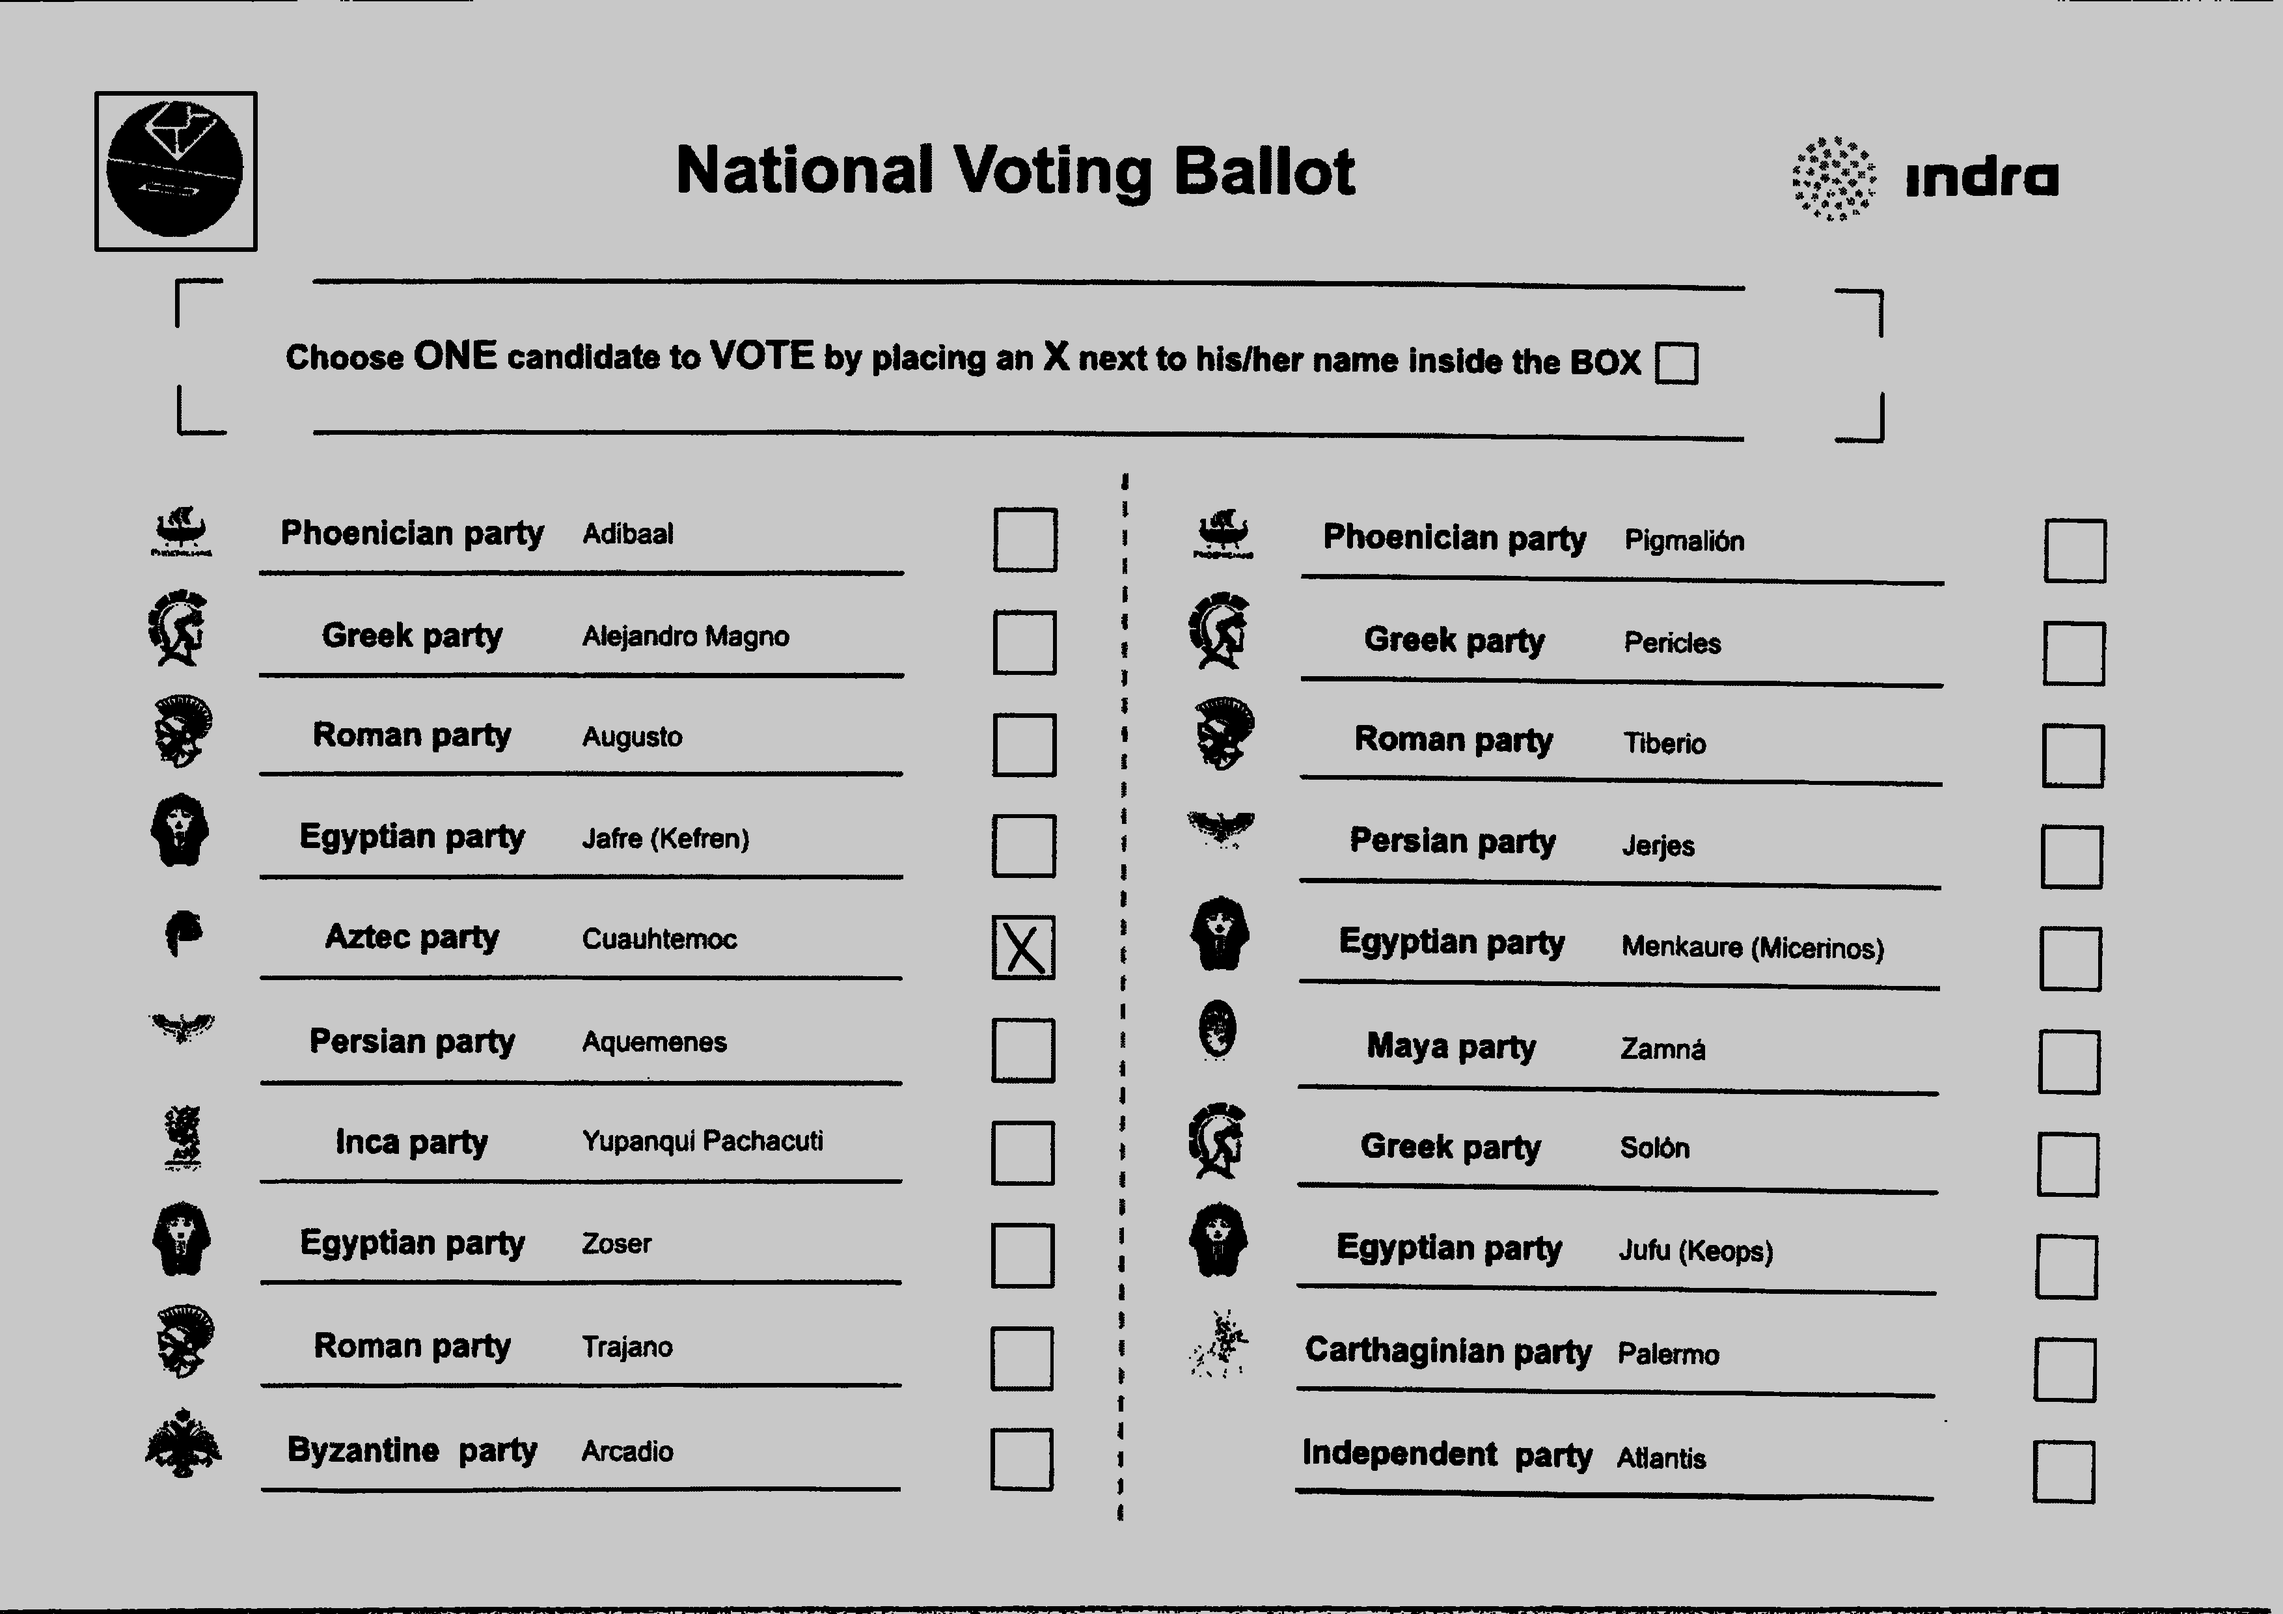
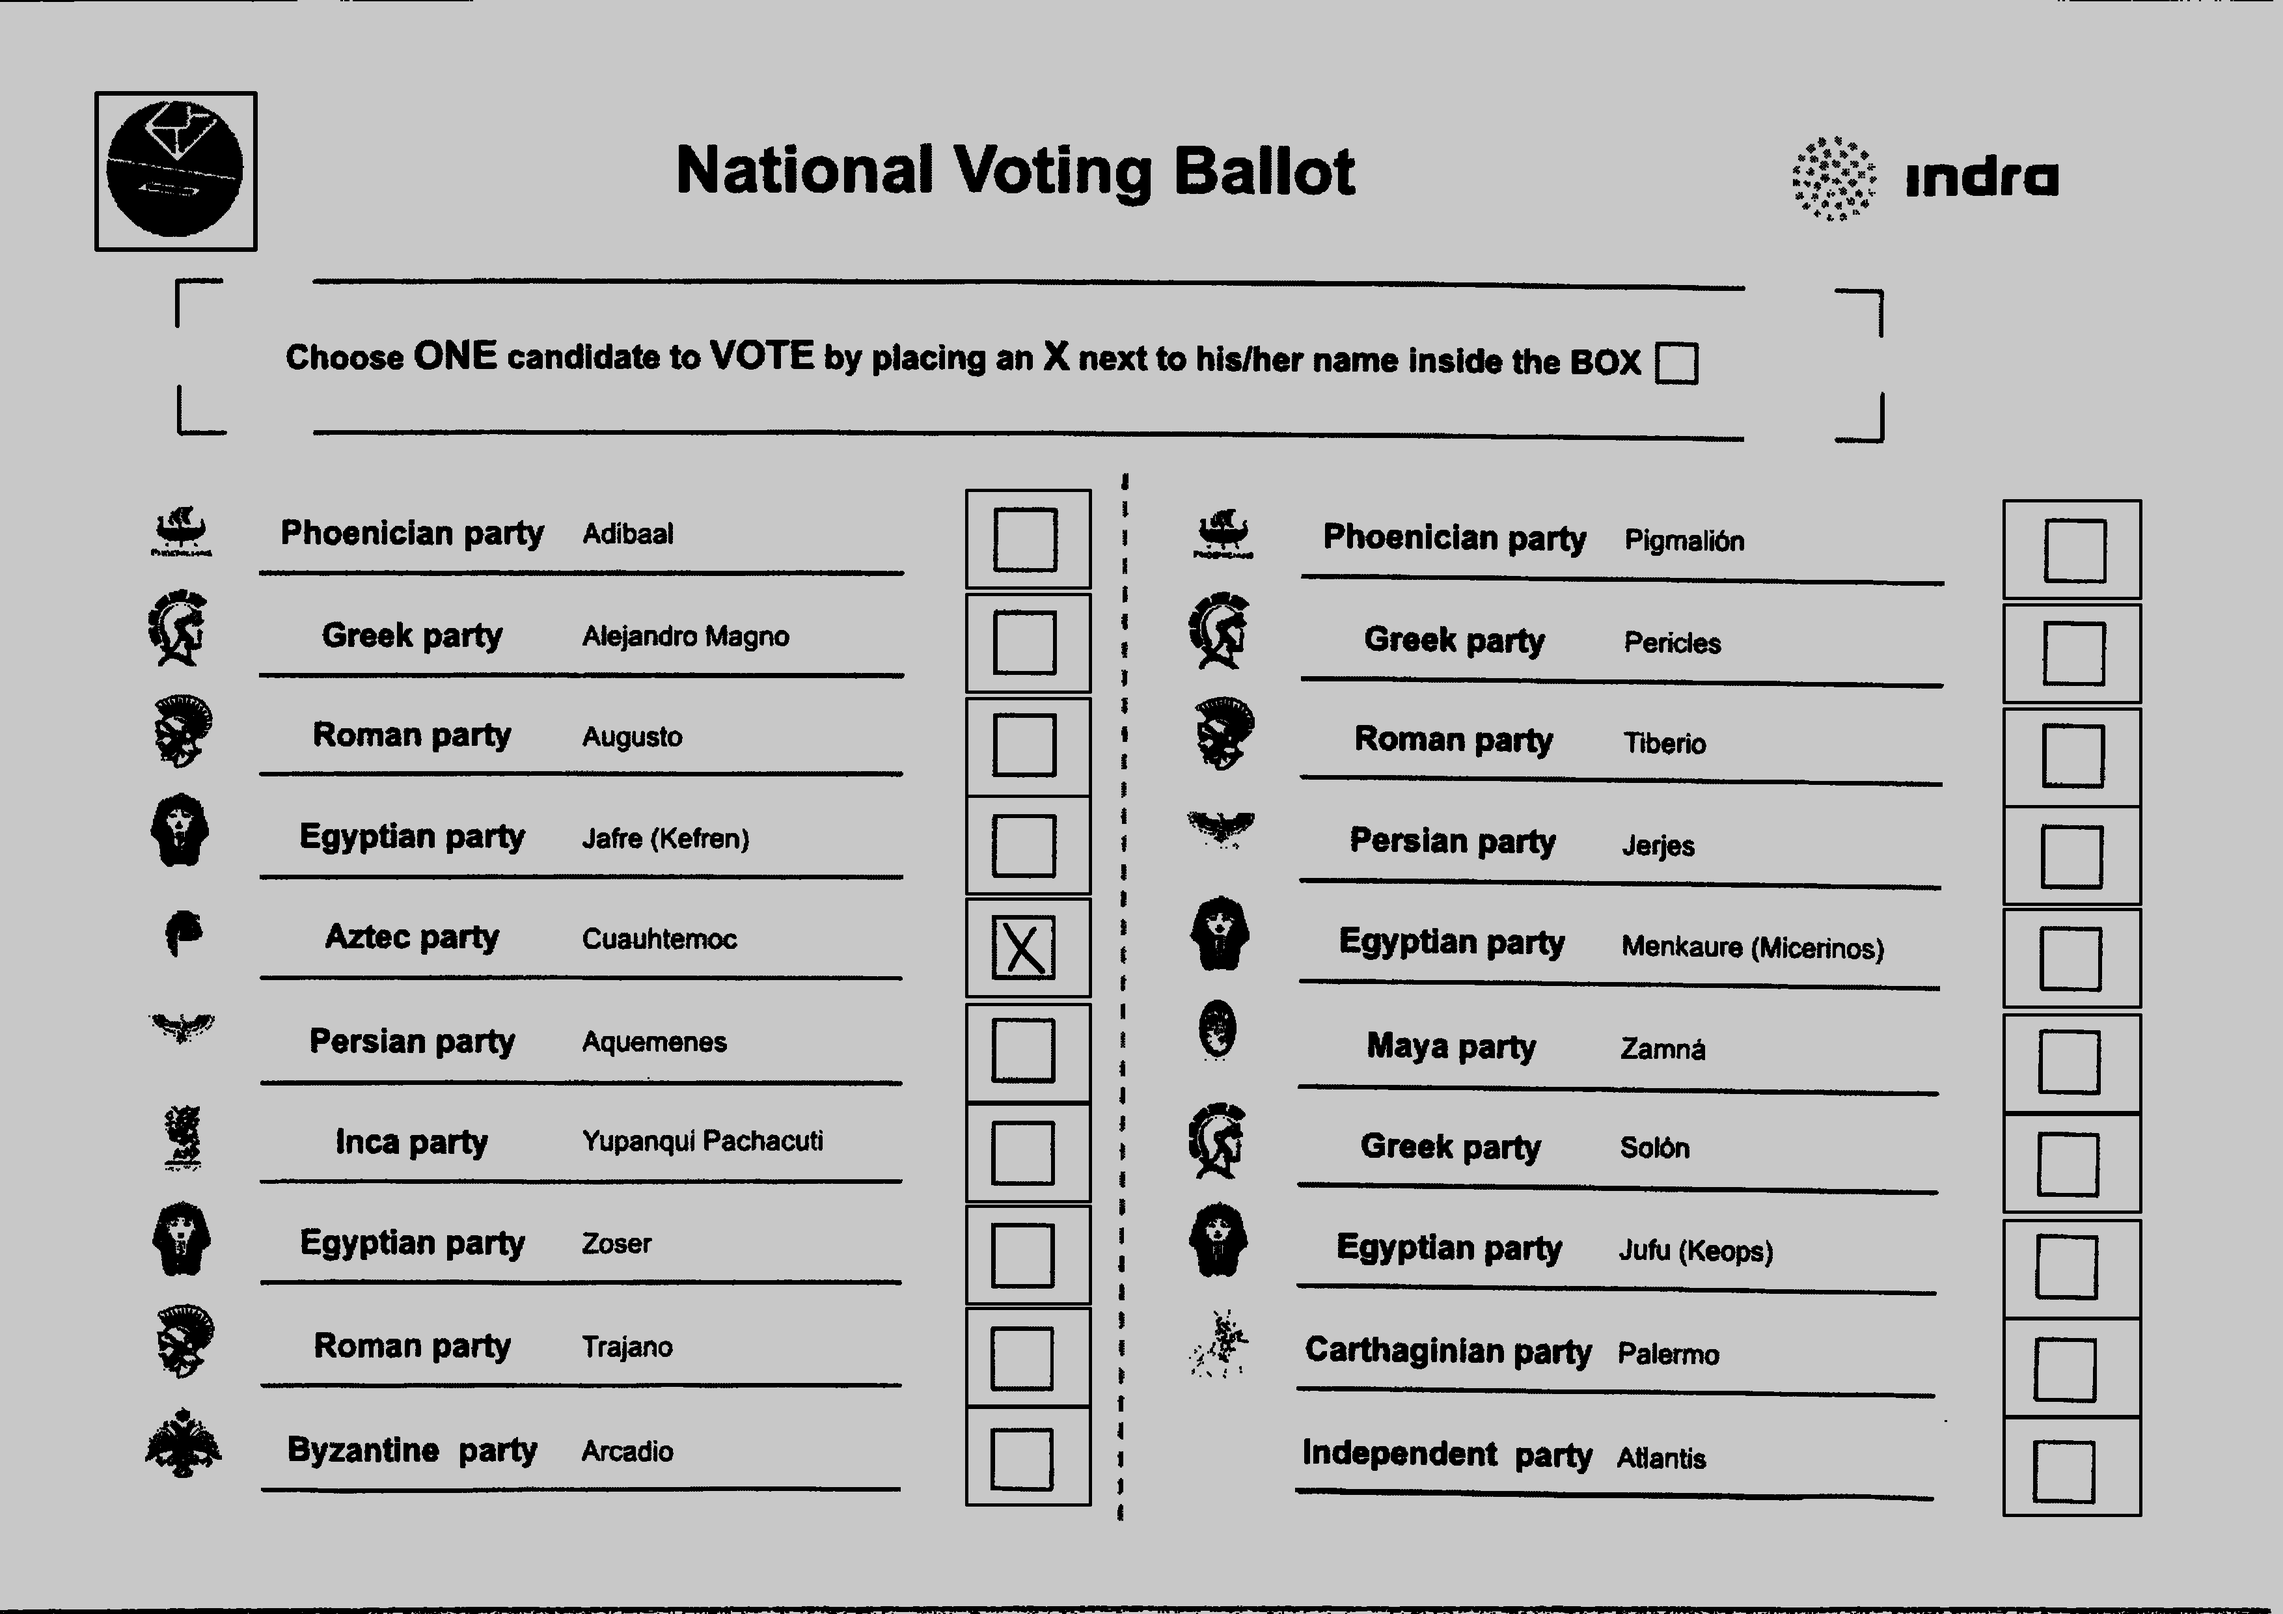
mejora

diff --git a/OCRVoteExtractor/OCRVoteExtractor/Form1.cs b/OCRVoteExtractor/OCRVoteExtractor/Form1.cs
@@ -42,6 +42,7 @@ namespace OCRVoteExtractor
             //foreach (string f in ficheros)            {
             //string f = "C:\\Users\\alain\\Documents\\PFG\\OCRVoteExtractor\\OCRVoteExtractor\\OCRVoteExtractor\\imagen\\image1.jpg";
             cargarPartidos();
+            //pintaCuadrados();
             buscar(img);
             //pintaCuadrados(f);
             //}
@@ -77,19 +78,127 @@ namespace OCRVoteExtractor
             }
         }
 
+        public void pintarCuadros(Rectangle r)
+        {
+            // detectar si hay cuadrados
+
+            Image<Bgr, Byte> img = new Image<Bgr, byte>((Bitmap)pictureBox1.Image);
+            //System.IO.FileInfo f = new System.IO.FileInfo(imagen);
+            UMat uimage = new UMat();
+            CvInvoke.CvtColor(img, uimage, ColorConversion.Bgr2Gray);
+            UMat pyrDown = new UMat();
+            UMat cannyEdges = new UMat();
+            // CvInvoke.AdaptiveThreshold(uimage, uimage, 125, AdaptiveThresholdType.MeanC, ThresholdType.Binary, 11, 12);
+            CvInvoke.Threshold(uimage, uimage, 180, 200, ThresholdType.Binary);
+            //CvInvoke.Threshold(uimage, uimage, 127, 256, 0);
+
+
+
+            var element = CvInvoke.GetStructuringElement(ElementShape.Rectangle, new Size(3, 3), new Point(-1, -1));
+
+            //CvInvoke.Dilate(uimage, uimage, element, new Point(-1, -1), 1, BorderType.Isolated, default(MCvScalar));
+            CvInvoke.Erode(uimage, uimage, element, new Point(-1, -1), 1, BorderType.Default, default(MCvScalar));
+
+            //CvInvoke.Dilate(uimage, uimage, element, new Point(-1, -1),2, BorderType.Reflect, default(MCvScalar));
+            uimage.Save("C:\\Users\\alain\\Documents\\PFG\\OCRVoteExtractor\\OCRVoteExtractor\\OCRVoteExtractor\\imagen\\guardada_erode.png");
+            // CvInvoke.PyrDown(uimage, pyrDown);
+            // CvInvoke.PyrUp(pyrDown, uimage);
+            //CvInvoke.Threshold(uimage, uimage, 50, 255, ThresholdType.Binary);
+
+            CvInvoke.Canny(uimage, cannyEdges, 100, 250);
+            cannyEdges.Save("C:\\Users\\alain\\Documents\\PFG\\OCRVoteExtractor\\OCRVoteExtractor\\OCRVoteExtractor\\imagen\\guardada_canny.png");
+
+            VectorOfVectorOfPoint contours = new VectorOfVectorOfPoint();
+            CvInvoke.FindContours(cannyEdges, contours, null, RetrType.List, ChainApproxMethod.ChainApproxSimple);
+            int count = contours.Size;
+            int a = 0;
+            for (int i = 0; i < count; i++)
+            {
+                VectorOfPoint contour = contours[i];
+               
+                VectorOfPoint approxContour = new VectorOfPoint();
+
+                //nos dice  si es una figura poligonal
+                CvInvoke.ApproxPolyDP(contour, approxContour, CvInvoke.ArcLength(contour, true) * 0.05, true);
+                // Calcula el área de todo el contorno o sección del contorno.
+                double area = CvInvoke.ContourArea(approxContour, false);
+               // MessageBox.Show(area.ToString());
+                
+                if (contour.Size == 4)
+                {
+                    // es un cuadrado
+                    
+                    //Rectangle rect = CvInvoke.BoundingRectangle(approxContour);
+                    Point[] pts = contour.ToArray();
+                   // MessageBox.Show(pts.Length.ToString());
+                    bool correcto = false;
+                    int xmin = r.X;
+                    
+                    int xmax = r.X + r.Width;
+                   // MessageBox.Show(xmin.ToString()+" "+ xmax.ToString());
+                    int ymin = r.Y;
+                    int ymax = r.Y + r.Height;
+                    for (int j = 0; j < pts.Length; j++)
+                    {
+                        if (pts[j].X > xmin && pts[j].X < xmax
+                       && pts[j].Y > ymin && pts[j].Y < ymax)
+                        {
+                            MessageBox.Show("x:" + pts[j].X.ToString() +
+                                "y:" + pts[j].Y.ToString() +
+                                "xmin:" + xmin.ToString() +
+                                "xmax:" + xmax.ToString() +
+                                "ymin:" + ymin.ToString() +
+                                "ymax:" + ymax.ToString());
+                            
+                            correcto = true;
+                        }
+                        else
+                        {
+                            correcto = false;
+                        }
+                        a++;
+                        
+                    }
+                    //MessageBox.Show("cuadrado");
+                    if (correcto)
+                    {
+                        MessageBox.Show("correcto");
+                        //MessageBox.Show("correcto");
+                       // img.Draw(rect, new Bgr(Color.Red), 2);
+                        pictureBox1.Image = img.ToBitmap();
+                    }
+
+
+
+                }
+
+            }
+           
+           // img.Save("C:\\Users\\alain\\Documents\\PFG\\OCRVoteExtractor\\OCRVoteExtractor\\OCRVoteExtractor\\imagen\\guardada_rectangulo.jpg");
+           // MessageBox.Show("Numero de cuadrados imagen es de " + a);
+        }
         public void buscar(Image<Bgr, Byte> img)
         {
+            List<Rectangle> rectangulos=new List<Rectangle>();
             for(int i = 0; i < this.partidosPapeleta.Count(); i++)
             {
                 Rectangle rect = new Rectangle(this.xT+this.partidosPapeleta[i].DistX, this.yT+this.partidosPapeleta[i].DistY, this.partidosPapeleta[i].Ancho, this.partidosPapeleta[i].Alto);
-               
-                    img.Draw(rect, new Bgr(Color.Red), 2);
+                rectangulos.Add(rect);
+                img.Draw(rect, new Bgr(Color.Red), 2);
+                
+                
             }
+
             pictureBox1.Image = img.ToBitmap();
-           
+
+            for (int k = 0; k < rectangulos.Count; k++)
+            {
+                pintarCuadros(rectangulos[k]);
+            }
+
         }
 
-        public void pintaCuadrados(string imagen)
+       /* public void pintaCuadrados()
         {
             // detectar si hay cuadrados
 
@@ -135,13 +244,15 @@ namespace OCRVoteExtractor
                 if (approxContour.Size >= 4)
                 {
                     // es un cuadrado
-
+                    
                     Rectangle rect = CvInvoke.BoundingRectangle(approxContour);
                     if (rect.Width > (img.Width * 0.02) && rect.Width < (img.Width * 0.06)
                         && rect.Height > (img.Height * 0.04) && rect.Height < (img.Height * 0.07))
                     {
                         a++;
+                        MessageBox.Show(approxContour.Size.ToString());
                         img.Draw(rect, new Bgr(Color.Red), 2);
+                        pictureBox1.Image = img.ToBitmap();
                     }
 
 
@@ -152,7 +263,7 @@ namespace OCRVoteExtractor
             img.Save("C:\\Users\\alain\\Documents\\PFG\\OCRVoteExtractor\\OCRVoteExtractor\\OCRVoteExtractor\\imagen\\guardada_rectangulo.jpg");
             MessageBox.Show("Numero de cuadrados imagen es de " + a);
 
-        }
+        }*/
 
         private void button2_Click(object sender, EventArgs e)
         {
